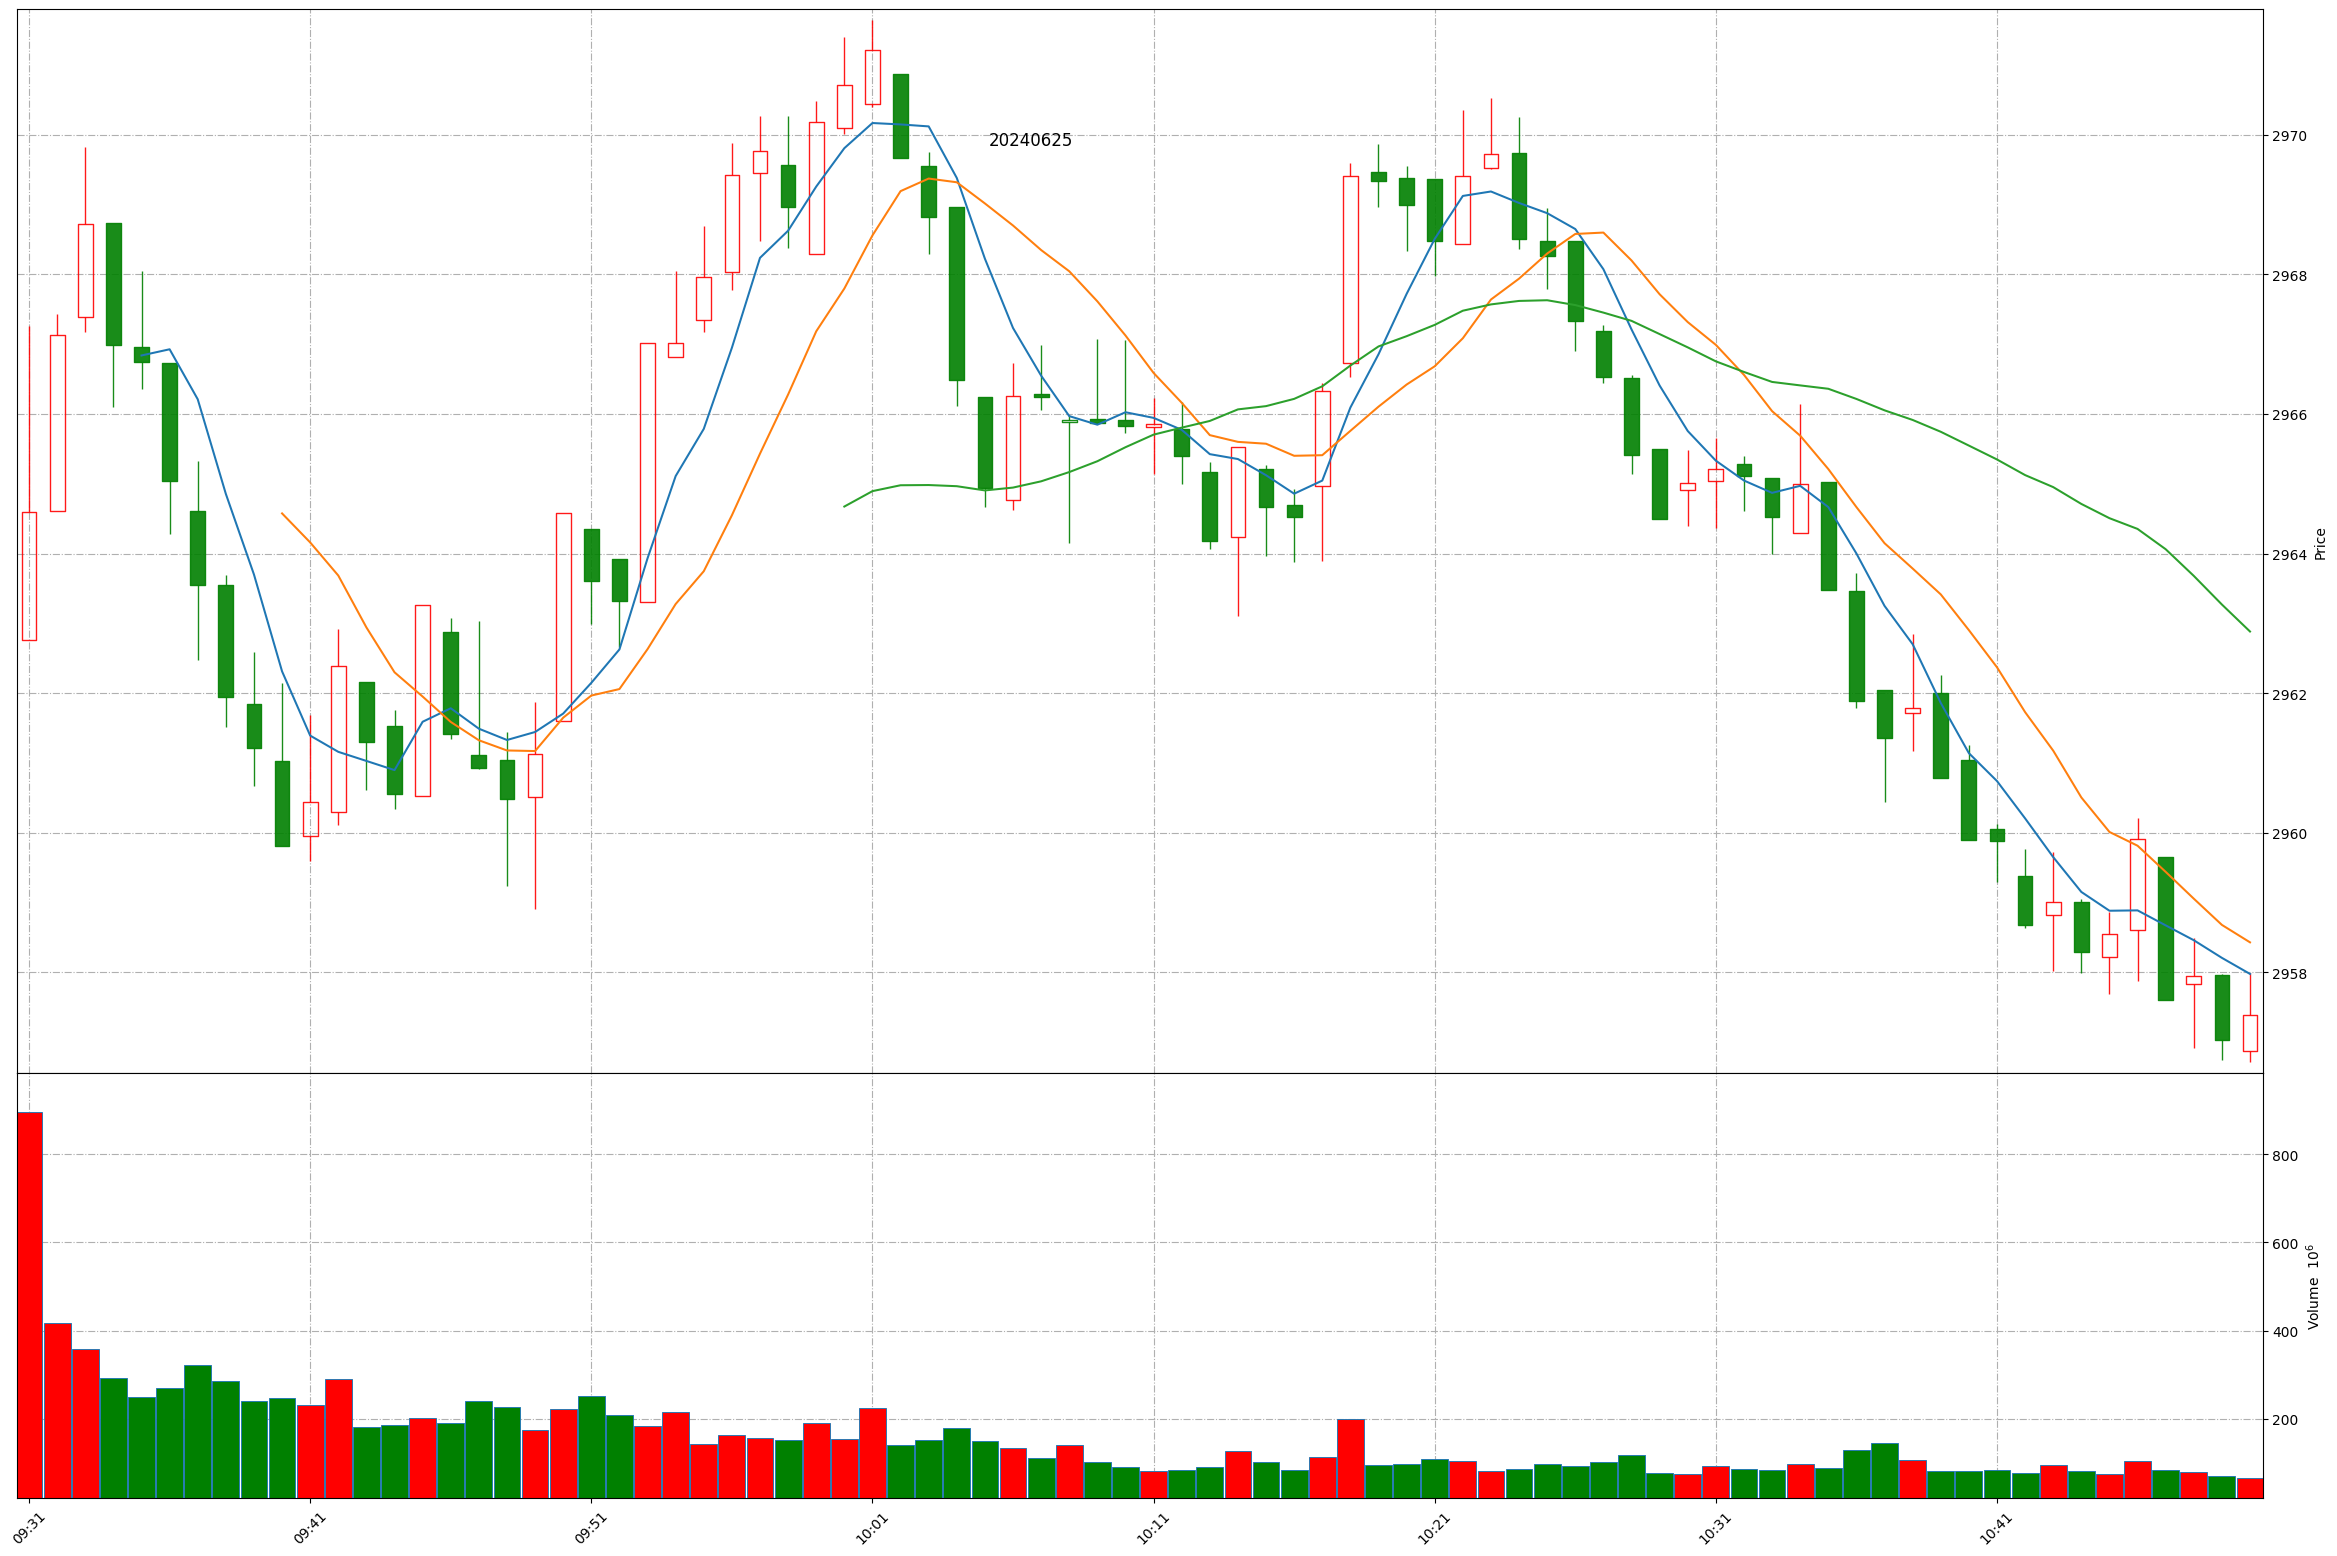
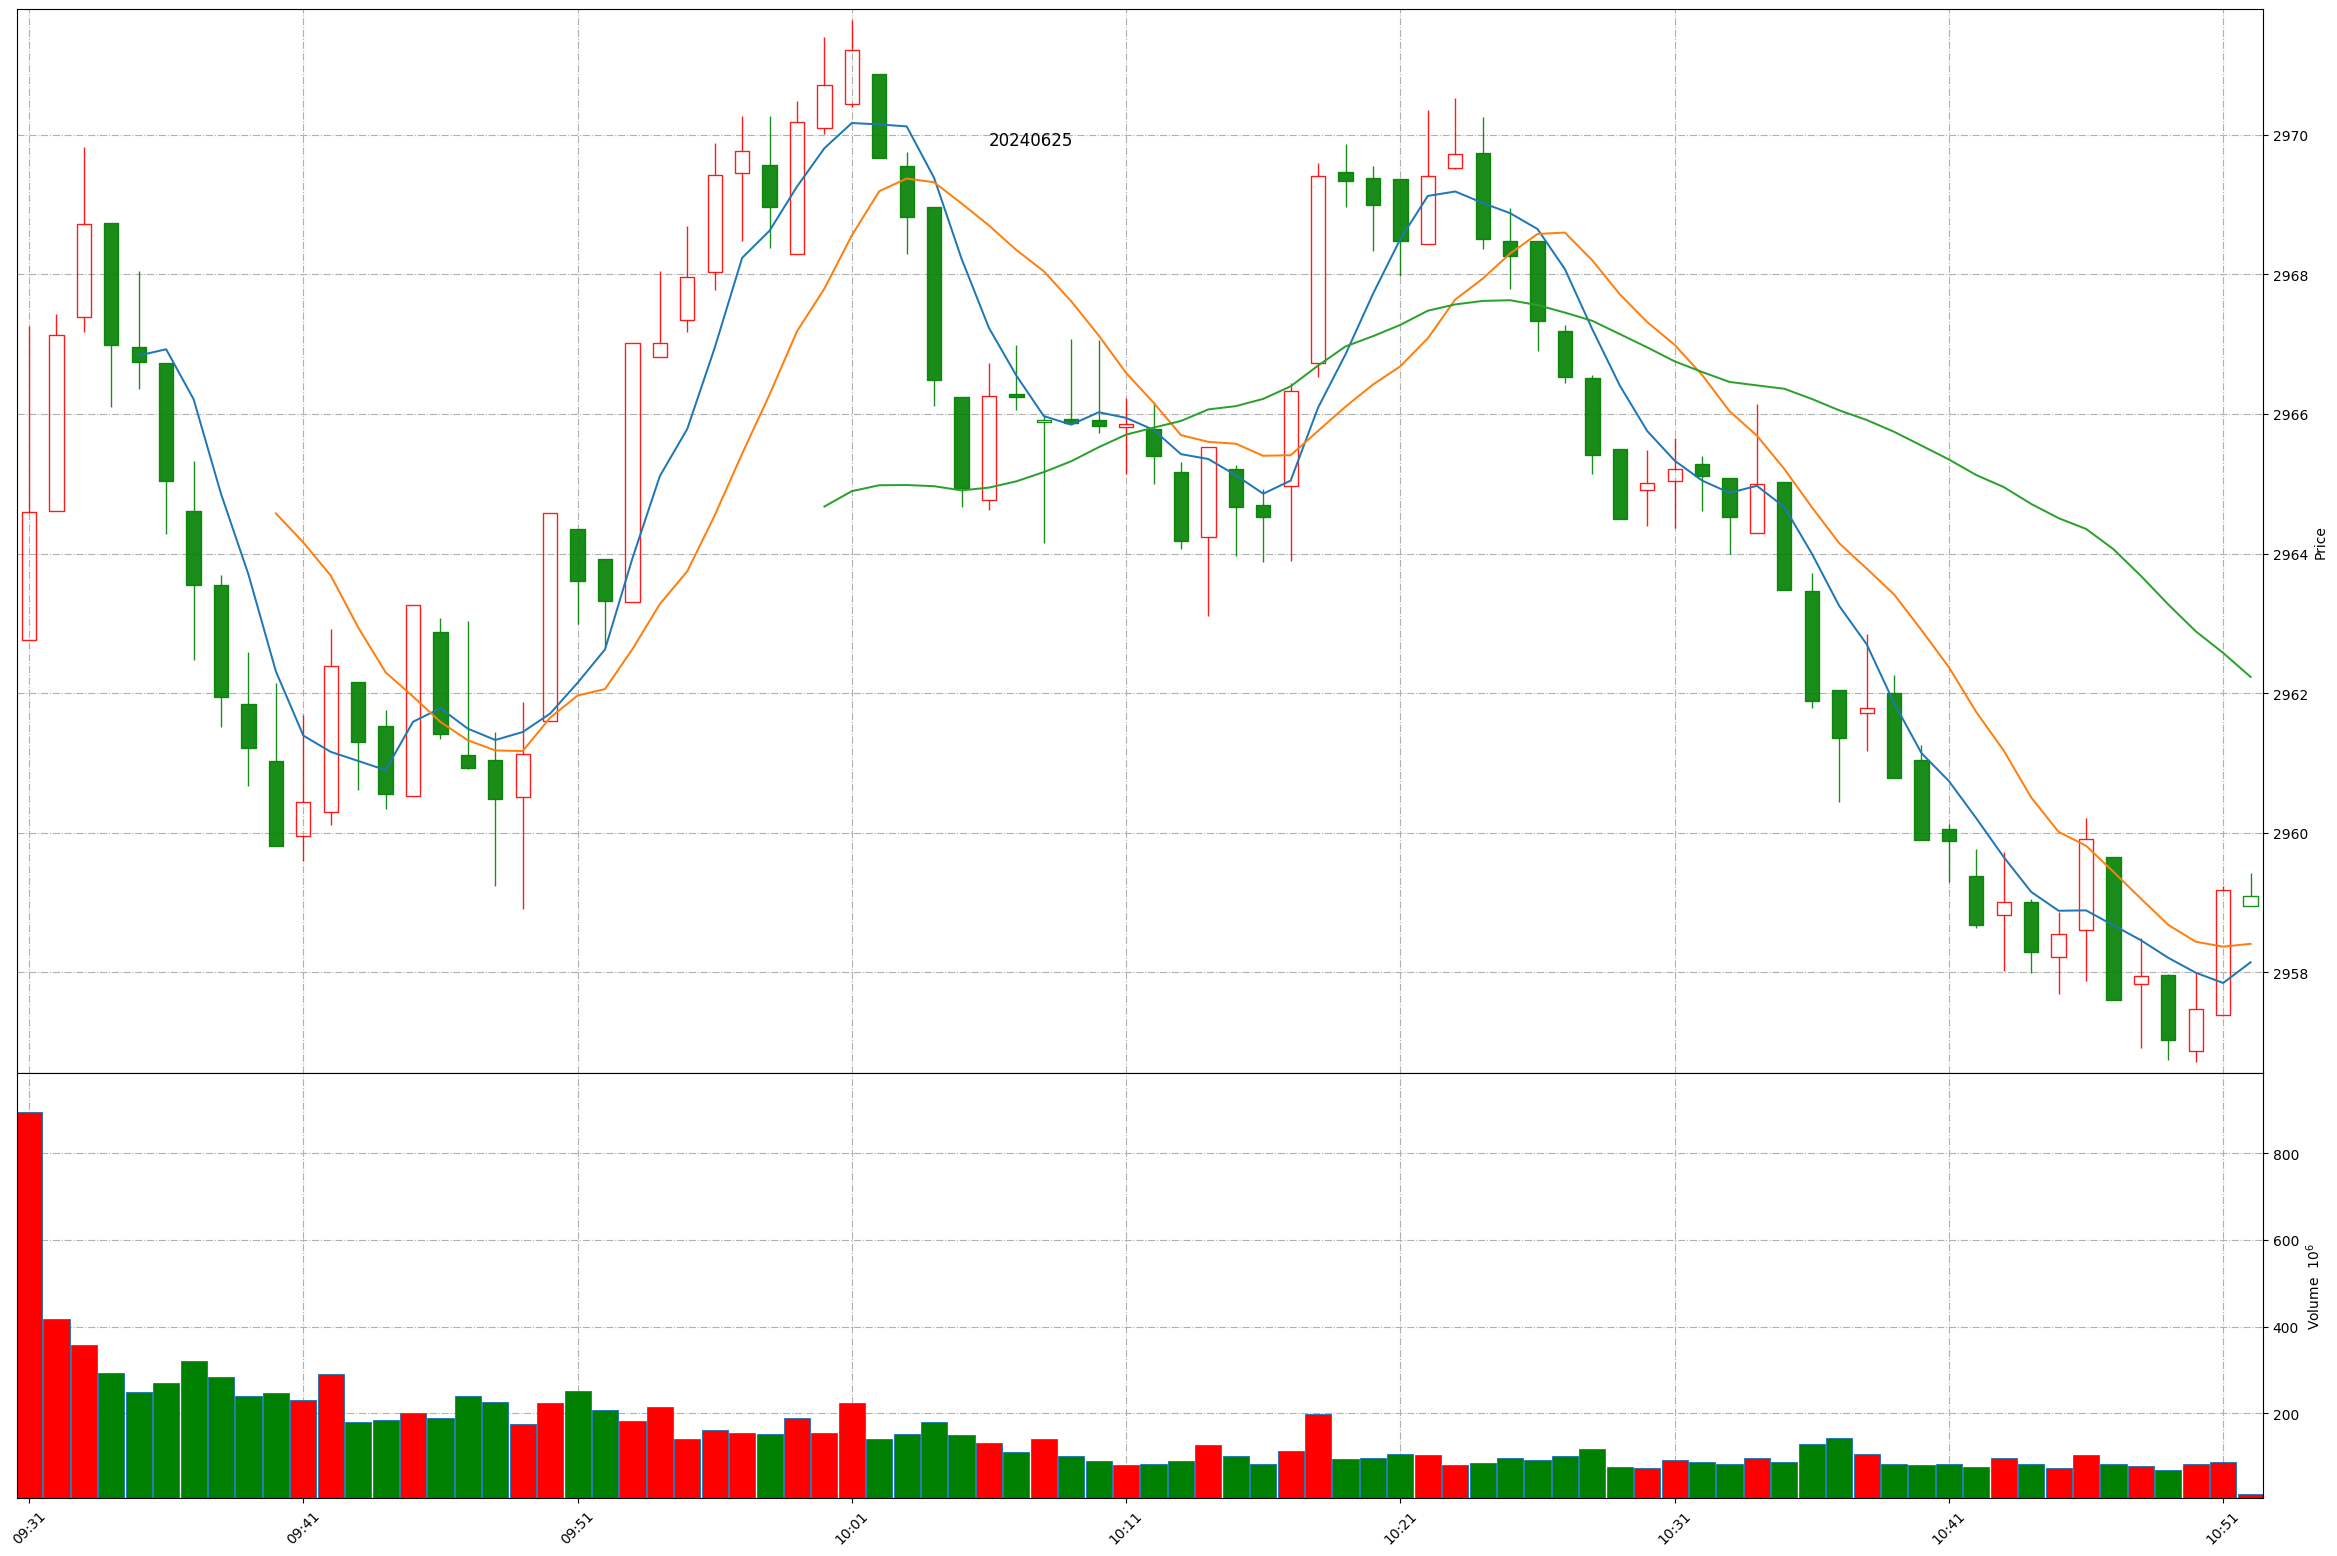
Github action update at 2024-06-25 10:51:43.

Changed region(s): [[0.2499, 0.0308, 0.9683, 0.6787], [0.0312, 0.8638, 0.9683, 0.9871], [0.0, 0.1234, 0.2811, 0.5553]]

diff --git a/README.md b/README.md
@@ -1,11 +1,11 @@
 
 # Daily-A-share-market-quotes 每日 A 股指数（5min 更新）- 20240625
 
-### 上证指数 20240625 10:50
+### 上证指数 20240625 10:51
 ![](./fig/2024/6/20240625-sh000001.png)
 
-### 深证成指 20240625 10:50
+### 深证成指 20240625 10:51
 ![](./fig/2024/6/20240625-sz399001.png)
 
-### 北证50 20240625 10:50
+### 北证50 20240625 10:51
 ![](./fig/2024/6/20240625-bj899050.png)
